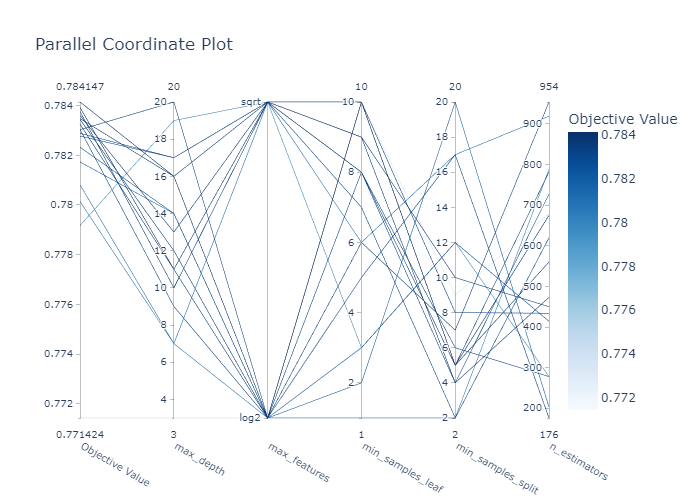
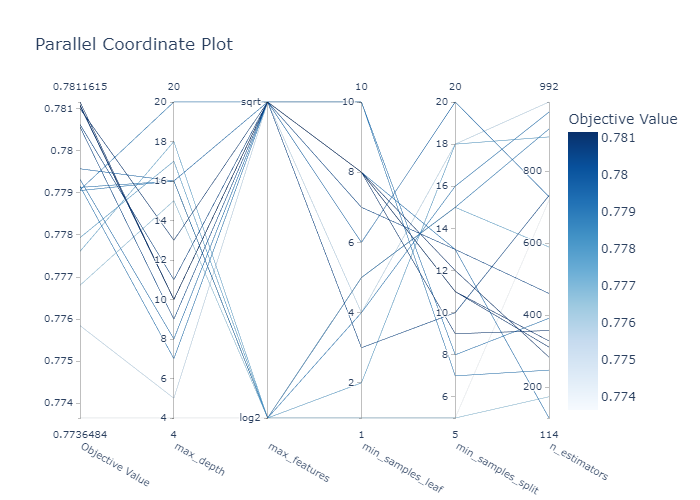
Update Random Forest model training and evaluation; adjust main analysis settings. Random Forest finished.

diff --git a/1. Code/main.py b/1. Code/main.py
@@ -65,12 +65,12 @@ def main():
         return
     
     # Choose which analyses to run
-    RUN_DESCRIPTIVE = True
-    RUN_OUTLIER_ANALYSIS = True
-    CREATE_VISUALIZATIONS = True
-    CLEAN_DATA = True
-    XGBOOST_MODEL = True
-    RANDOM_FOREST_MODEL = False
+    RUN_DESCRIPTIVE = False
+    RUN_OUTLIER_ANALYSIS = False
+    CREATE_VISUALIZATIONS = False
+    CLEAN_DATA = False
+    XGBOOST_MODEL = False
+    RANDOM_FOREST_MODEL = True
     
     if RUN_DESCRIPTIVE:
         run_descriptive_analysis(data)
@@ -120,7 +120,7 @@ def main():
         y_test = test_data['default.payment.next.month']
         
         # Train and evaluate model
-        model_results = train_random_forest_model(train_data, test_data, use_optuna=False)
+        model_results = train_random_forest_model(train_data, test_data, use_optuna=True)
         
         # Create visualizations
         create_model_visualizations(model_results, 'random_forest')

diff --git a/1. Code/random_forest_model.py b/1. Code/random_forest_model.py
@@ -117,7 +117,7 @@ def save_model_results(model_results, output_dir='Results/RandomForest'):
         f.write(f"Accuracy: {model_results['accuracy']:.4f}\n")
         f.write(f"AUC Score: {model_results['auc_score']:.4f}\n")
 
-def train_random_forest_model(train_data, test_data, use_optuna=True):
+def train_random_forest_model(train_data, test_data, use_optuna):
     """Train and evaluate Random Forest model with optional Optuna tuning"""
     # Prepare data
     X_train = train_data.drop(['ID', 'default.payment.next.month'], axis=1)
